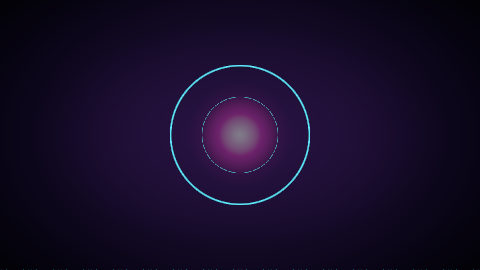
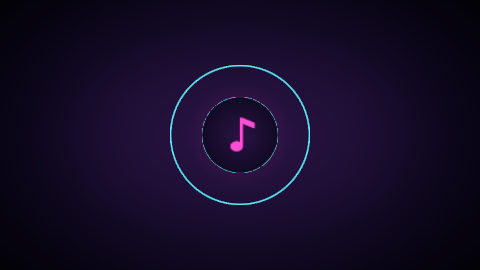
feat: show the cover, title and artist of what plays in the middle of the Pulse example and let the phone play media scenes over their placeholders

Changed region(s): [[0.4062, 0.3556, 0.5938, 0.6519]]

diff --git a/android/app/src/main/kotlin/Detail.kt b/android/app/src/main/kotlin/Detail.kt
@@ -94,6 +94,7 @@ fun Detail(main: Main, uid: String, close: () -> Unit) {
                         "shortcut" -> R.string.lacks_shortcut
                         "script_hierarchy" -> R.string.lacks_script_hierarchy
                         "rgb" -> R.string.lacks_rgb
+                        "media_info" -> R.string.lacks_media_info
                         else -> null
                     }
                 }.map { stringResource(it) }

diff --git a/apps/wprs-ctl/tests/pack.rs b/apps/wprs-ctl/tests/pack.rs
@@ -19,8 +19,8 @@ fn check_explains_what_a_package_needs_and_upgrade_rates_it() {
     for line in [
         "rating = general",
         "photosensitive = yes",
-        "inputs = audio",
-        "needs = inputs.audio (reacts to the sound playing on the computer)",
+        "inputs = audio, media",
+        "needs = inputs.audio (reacts to the sound playing on the computer), inputs.media (shows what the media player plays), media_info (shows the title, cover or progress of what the media player plays)",
         "languages = en, es",
     ] {
         assert!(shown.lines().any(|l| l == line), "{line}: {shown}");
@@ -29,6 +29,8 @@ fn check_explains_what_a_package_needs_and_upgrade_rates_it() {
     let src = tmp.path().join("src");
     std::fs::create_dir(&src).unwrap();
     std::fs::copy(pulse.join("scene.json"), src.join("scene.json")).unwrap();
+    std::fs::create_dir(src.join("assets")).unwrap();
+    std::fs::copy(pulse.join("assets/cover.png"), src.join("assets/cover.png")).unwrap();
     let manifest = r##"{"schema": "wallpaper-rs.wpak/1", "id": "org.example.beat", "version": "1.0.0",
         "title": "Beat", "license": "CC0-1.0", "kind": "scene", "entry": "scene.json",
         "properties": {"color": {"type": "color", "default": "#ffffff"}, "show": {"type": "combo",
@@ -47,8 +49,8 @@ fn check_explains_what_a_package_needs_and_upgrade_rates_it() {
             &serde_json::json!("wallpaper-rs.wpak/2"),
             &serde_json::json!("mature"),
             &serde_json::json!(["violence"]),
-            &serde_json::json!(["audio"]),
-            &serde_json::json!(["inputs.audio"])
+            &serde_json::json!(["audio", "media"]),
+            &serde_json::json!(["inputs.audio", "inputs.media", "media_info"])
         )
     );
     std::fs::create_dir(src.join("locale")).unwrap();

diff --git a/crates/wprs-format/tests/scenes/reading.rs b/crates/wprs-format/tests/scenes/reading.rs
@@ -19,13 +19,8 @@ fn scenes_name_their_newer_features_and_engines_refuse_what_they_cannot_draw() {
     let package = load(&listed, &files).unwrap();
     assert_eq!(package.facts.features.iter().collect::<Vec<_>>(), all);
     assert!(features::playable(&package.manifest, &package.facts, Platform::Desktop).is_ok());
-    let phone =
-        features::playable(&package.manifest, &package.facts, Platform::Android).unwrap_err().to_string();
-    assert!(
-        phone.contains("media_info") && !phone.contains("shadows") && !phone.contains("lighting2d"),
-        "{phone}"
-    );
-    assert_eq!(features::lacks("android", &package.facts.features), ["sound", "sound2"]);
+    assert!(features::playable(&package.manifest, &package.facts, Platform::Android).is_ok());
+    assert_eq!(features::lacks("android", &package.facts.features), ["media_info", "sound", "sound2"]);
     assert!(package.facts.facets.iter().any(|f| f == "desktop"));
     assert!(package.facts.facets.iter().all(|f| f != "android"));
     let mut few = manifest(&["sound", "sound2"]);
@@ -39,7 +34,7 @@ fn scenes_name_their_newer_features_and_engines_refuse_what_they_cannot_draw() {
     older.preview = Some("preview.png".into());
     let package = load(&older, &files).unwrap();
     assert!(features::playable(&package.manifest, &package.facts, Platform::Desktop).is_ok());
-    assert!(features::playable(&package.manifest, &package.facts, Platform::Android).is_err());
+    assert!(features::playable(&package.manifest, &package.facts, Platform::Android).is_ok());
     let plain = scene(json!([{ "id": "sky", "type": "image", "image": "sky", "parallax": 0.2 }]), json!({}));
     let package = load(&manifest(&["inputs.pointer"]), &[("scene.json", plain.as_bytes())]);
     assert!(package.is_err_and(|e| e.to_string().contains("inputs")));

diff --git a/apps/wprs-ctl/tests/examples.rs b/apps/wprs-ctl/tests/examples.rs
@@ -89,7 +89,8 @@ fn example_scenes_pack_small_render_and_rest() {
         let scene = Arc::new(package.scene().unwrap());
         assert_eq!(scene.sounds().count(), usize::from(SOUNDS.contains(&name.as_str())), "{name}");
         let pictures: Vec<_> = scene.assets.iter().filter(|(_, a)| !playable(&a.path)).collect();
-        assert!(pictures.iter().all(|(_, a)| a.linear), "{name} draws its pictures itself");
+        let drawn = pictures.iter().all(|(_, a)| a.linear || a.media.is_some());
+        assert!(drawn, "{name} draws its pictures itself");
         let mut assets = SceneAssets::default();
         for (id, asset) in pictures {
             let data = image::load_from_memory(&package.read_file(&asset.path).unwrap()).unwrap();
@@ -104,6 +105,10 @@ fn example_scenes_pack_small_render_and_rest() {
         let mean = shot.pixels().map(|p| f64::from(p.0[1])).sum::<f64>() / count;
         let spread = shot.pixels().map(|p| (f64::from(p.0[1]) - mean).powi(2)).sum::<f64>() / count;
         assert!(spread.sqrt() > 8.0, "{name} looks flat");
+        if scene.assets.values().any(|a| a.media.is_some()) {
+            let middle = shot.get_pixel(SIZE.0 / 2 - 4, SIZE.1 / 2 + 11).0;
+            assert!(middle[0] > 160 && middle[2] > 120, "{name} shows its cover in the middle: {middle:?}");
+        }
         let mut runtime = fresh();
         if runtime.uses().cursor {
             let at = [1.0, 0.5];

diff --git a/crates/wprs-format/src/scenery.rs b/crates/wprs-format/src/scenery.rs
@@ -1,5 +1,5 @@
 use crate::features::Support;
-use crate::features::Support::{Refused as No, Runs as Yes, Without};
+use crate::features::Support::{Runs as Yes, Without};
 
 pub const SCENE: &[(&str, &str, [Support; 2])] = &[
     ("blend_modes2", "mixes layers with the newer blend modes", [Yes, Yes]),
@@ -83,6 +83,6 @@ pub const SCENE: &[(&str, &str, [Support; 2])] = &[
     ("script_shortcuts", "opens what the user chooses from a script", [Yes, Without]),
     ("script_hierarchy", "lets its scripts read and change the parents of layers", [Yes, Yes]),
     ("layer_events", "reacts to the pointer on its layers", [Yes, Yes]),
-    ("media_info", "shows the title, cover or progress of what the media player plays", [Yes, No]),
+    ("media_info", "shows the title, cover or progress of what the media player plays", [Yes, Without]),
     ("rgb", "sends its colors to RGB lighting", [Yes, Without]),
 ];

diff --git a/crates/wprs-format/tests/figures/inputs.rs b/crates/wprs-format/tests/figures/inputs.rs
@@ -50,10 +50,8 @@ fn declared_script_parts_and_media_become_inputs() {
     assert_eq!(package.facts.inputs.iter().collect::<Vec<_>>(), [&Input::Audio, &Input::Media]);
     let declared = package.manifest.declared().unwrap();
     assert!(declared.audio && declared.media && !declared.cursor);
-    let phone =
-        features::playable(&package.manifest, &package.facts, Platform::Android).unwrap_err().to_string();
-    assert!(phone.contains("media_info") && !phone.contains("scripts2"), "{phone}");
-    assert!(features::lacks("android", &package.facts.features).is_empty(), "the phone runs scripts");
+    assert!(features::playable(&package.manifest, &package.facts, Platform::Android).is_ok());
+    assert_eq!(features::lacks("android", &package.facts.features), ["media_info"], "the phone runs scripts");
 }
 
 #[test]

diff --git a/crates/wprs-android/src/tests/scenes.rs b/crates/wprs-android/src/tests/scenes.rs
@@ -38,7 +38,7 @@ pub(super) fn scenes() {
     };
     assert_eq!(
         [lacks("Orbits"), lacks("Snowfall"), lacks("Pulse")],
-        [json!([]), json!(["sound"]), json!([])]
+        [json!([]), json!(["sound"]), json!(["media_info"])]
     );
     assert!(
         about["about"]["description"].as_str().unwrap().contains("\n\nDestella con el ritmo y"),

diff --git a/README.md b/README.md
@@ -1760,7 +1760,7 @@ La carpeta `scenes/` guarda cinco escenas de ejemplo de dominio público (CC0):
 capas, modos de fusión, máscaras, línea de tiempo y profundidad que sigue al puntero o una órbita
 lenta con un mapa calculado a partir de sus formas (`dusk`), partículas, efectos, el sonido del
 viento y las imágenes de una carpeta que elijas tras la nieve (`snowfall`), análisis del sonido
-(`pulse`), puntero y el sonido del agua (`pond`) y un script con una imagen o un vídeo de fondo que
+con la carátula, el título y el artista de lo que suena en el centro (`pulse`), puntero y el sonido del agua (`pond`) y un script con una imagen o un vídeo de fondo que
 eliges (`orbits`). `scripts/ambient-sounds.sh` sintetiza esos dos sonidos (ruido filtrado y gotas,
 también CC0) y los guarda como Ogg Vorbis.
 

diff --git a/docs/specs/package.md b/docs/specs/package.md
@@ -355,7 +355,7 @@ scene sound, plays a scene with `sound2` silently, runs `scripts2`, `script_laye
 | `script_shortcuts` | has scripts that use `shortcuts` | runs | without |
 | `script_hierarchy` | has scripts that use `hierarchy` | runs | runs |
 | `layer_events` | sets `solid: { "alpha" }`, `hit` bones, `click:`, `enter:` or `leave:` triggers or scripts that handle pointer events | runs | runs |
-| `media_info` | follows `media` values, cover assets, `media:` triggers or scripts that use the media player | runs | refused |
+| `media_info` | follows `media` values, cover assets, `media:` triggers or scripts that use the media player | runs | without |
 
 ## Profiles
 
